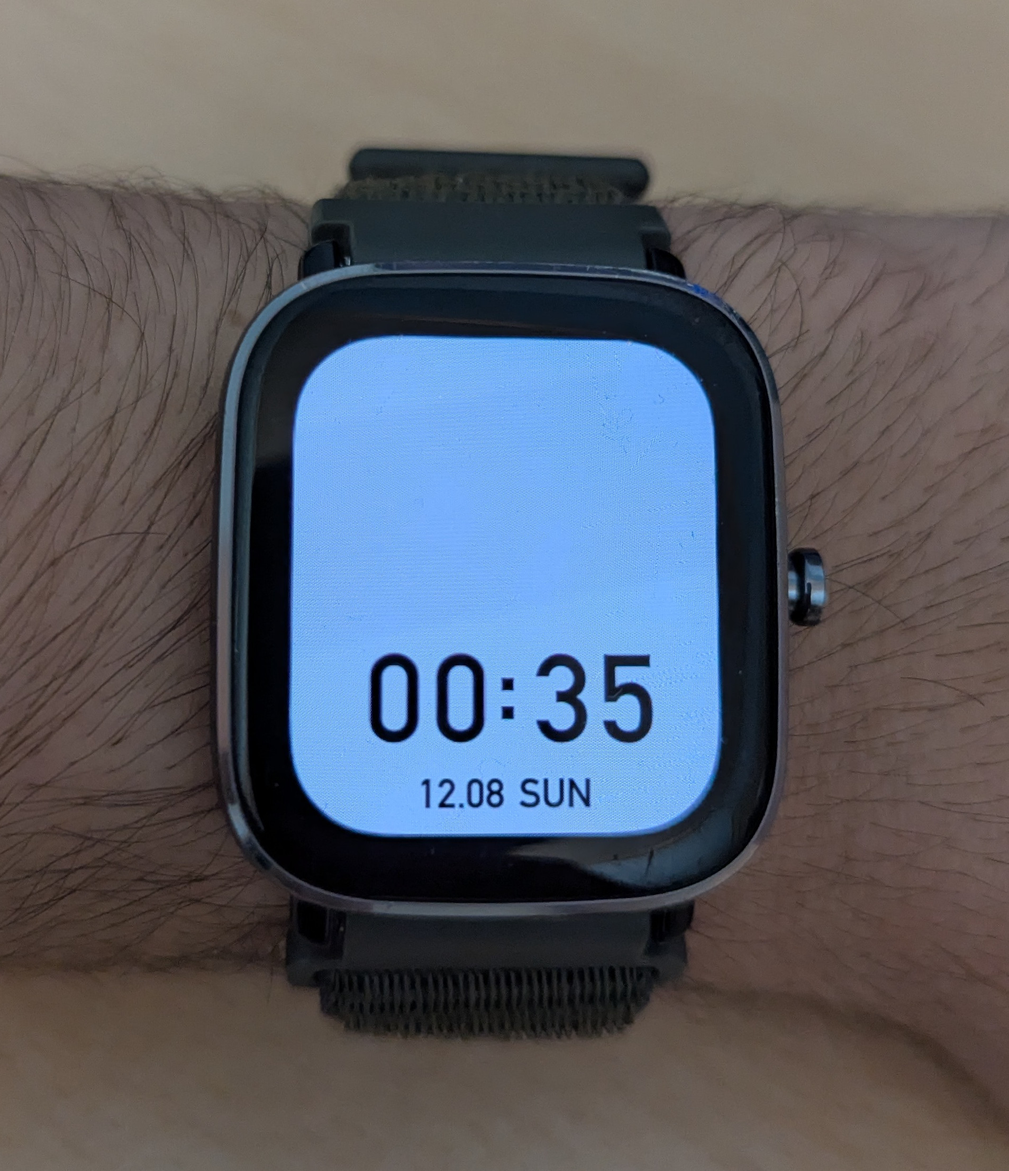
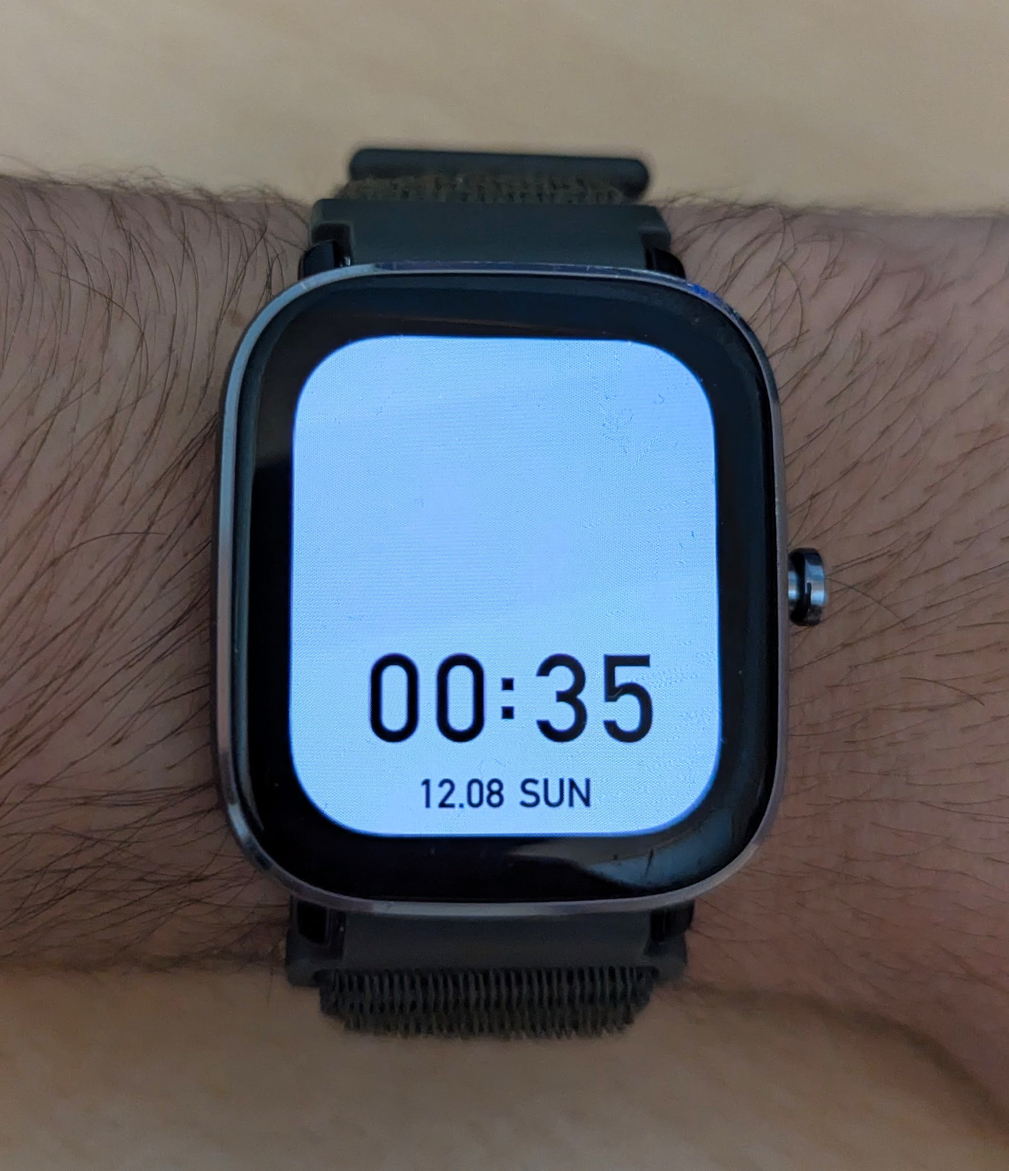
Fix Evora experience, I used a Mac. Update Amazfit image. Solve bug index button scroll

diff --git a/src/app/services/experience-calculator.service.ts b/src/app/services/experience-calculator.service.ts
@@ -128,10 +128,10 @@ export class ExperienceCalculatorService {
                 Skills.GIT, Skills.BITBUCKET,
                 Skills.JIRA, Skills.CONFLUENCE, Skills.FIGMA,
                 Skills.MVC, Skills.AGILE, Skills.CONTINUOUSINTEGRATION,
-                Skills.WINDOWS,
+                Skills.MACOS,
             ]
         },
-        { // Alvea // -
+        { // Alvea //
             nom: "Alvea",
             dates: ["2024-06-18",],
             skills: [
@@ -155,7 +155,7 @@ export class ExperienceCalculatorService {
         this.calcularExperiencia();
 
         this.setIntervalDiari();
-        
+
     }
 
     setIntervalDiari() {

diff --git a/src/app/pages/projects-page/projects-page.component.html b/src/app/pages/projects-page/projects-page.component.html
@@ -5,7 +5,7 @@
         @if (m.en) { Personal projects }
     </div>
 
-    <div class="content mb-6 d-flex flex-column gap-6" appMostrarAmbAnimacio>
+    <div class="content mb-6 d-flex flex-column gap-6">
 
         <app-android-apps />
         <app-mad-jumpgate />

diff --git a/src/app/pages/art-page/art-page.component.html b/src/app/pages/art-page/art-page.component.html
@@ -5,7 +5,7 @@
         @if (m.en) { Artistic projects }
     </div>
 
-    <div class="content mb-6 d-flex flex-column gap-6" appMostrarAmbAnimacio>
+    <div class="content mb-6 d-flex flex-column gap-6">
 
         <app-icons />
         <app-amazfit-watchfaces />

diff --git a/src/app/pages/experience-page/experience-page.component.html b/src/app/pages/experience-page/experience-page.component.html
@@ -5,7 +5,7 @@
         @if (m.en) { Professional experience }
     </div>
 
-    <div class="content mb-6 d-flex flex-column gap-6" appMostrarAmbAnimacio>
+    <div class="content mb-6 d-flex flex-column gap-6">
 
         <app-alvea />
         <app-evora />
